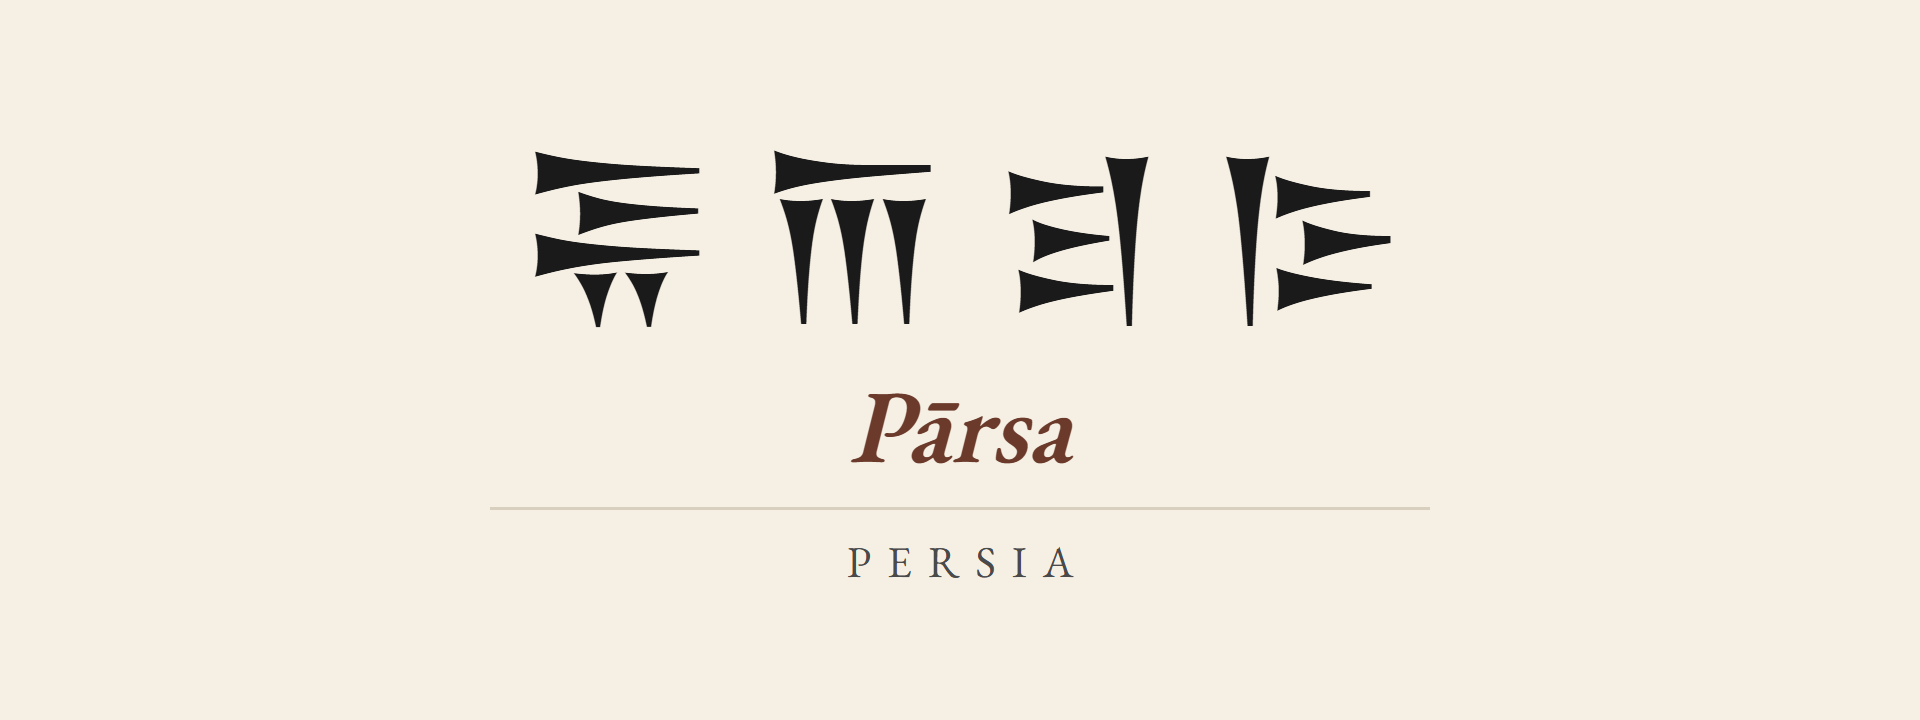
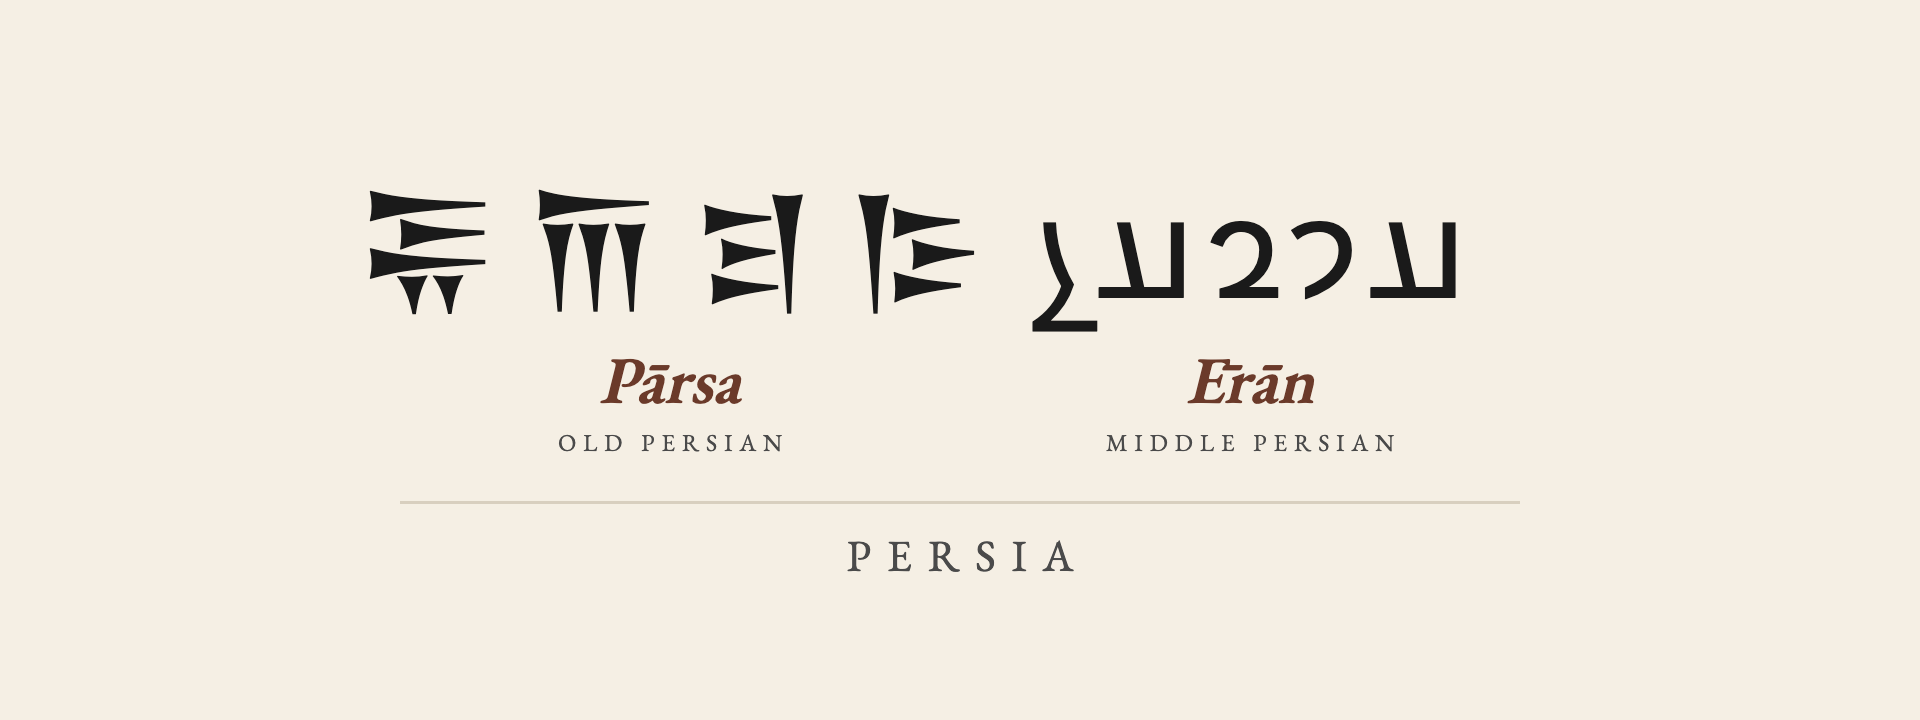
Adopt a two-column title card for Persia (Pārsa + Ērān)
Add the DualTitleCard Remotion composition: a two-column card for entities whose
payoff is multiple endonyms across time periods, with per-column script line,
transliteration, and period caption under one shared label. Equal-width columns
keep the two scripts balanced. It loads the Inscriptional Pahlavi font the
single-endonym card lacks. Adopt it for Persia, showing Old Persian Pārsa beside
Middle Persian Ērān; the single-endonym TitleCard is untouched.

diff --git a/videos/src/DualTitleCard.tsx b/videos/src/DualTitleCard.tsx
@@ -1,0 +1,127 @@
+import React from "react";
+import { AbsoluteFill } from "remotion";
+import { loadFont as loadGaramond } from "@remotion/google-fonts/EBGaramond";
+import { loadFont as loadHieroglyphs } from "@remotion/google-fonts/NotoSansEgyptianHieroglyphs";
+import { loadFont as loadOldPersian } from "@remotion/google-fonts/NotoSansOldPersian";
+import { loadFont as loadPahlavi } from "@remotion/google-fonts/NotoSansInscriptionalPahlavi";
+
+// PROTOTYPE — a two-column title card for entities with multiple endonyms across
+// time periods (e.g. Persia: Old Persian Pārsa and Middle Persian Ērān). Each
+// column carries its own script line, transliteration, and a small period caption;
+// a single English label sits below a shared rule. The single-endonym TitleCard is
+// left untouched — this is purely additive, for evaluating the idea on Persia.
+
+const { fontFamily: garamond } = loadGaramond("normal", {
+  weights: ["400", "600"],
+  subsets: ["latin", "greek", "greek-ext"],
+});
+const { fontFamily: hieroglyphs } = loadHieroglyphs("normal", { weights: ["400"], subsets: ["egyptian-hieroglyphs"] });
+const { fontFamily: oldPersian } = loadOldPersian("normal", { weights: ["400"], subsets: ["old-persian"] });
+const { fontFamily: pahlavi } = loadPahlavi("normal", { weights: ["400"], subsets: ["inscriptional-pahlavi"] });
+
+const PARCHMENT = "#f5efe4";
+const INK = "#1a1a1a";
+const INK_SOFT = "#4a4a4a";
+const ACCENT = "#6b3a2a";
+const RULE = "#d8cfbf";
+
+// A touch smaller than the single-endonym card so two columns sit comfortably on
+// the 1920×720 banner.
+const SCRIPTS = {
+  "egyptian-hieroglyphs": { fontFamily: hieroglyphs, fontSize: 168, letterSpacing: 10 },
+  "old-persian": { fontFamily: oldPersian, fontSize: 140, letterSpacing: 10 },
+  "inscriptional-pahlavi": { fontFamily: pahlavi, fontSize: 140, letterSpacing: 8 },
+  greek: { fontFamily: garamond, fontSize: 150, letterSpacing: 0 },
+  latin: { fontFamily: garamond, fontSize: 132, letterSpacing: 0 },
+} as const;
+
+type Endonym = {
+  script: keyof typeof SCRIPTS;
+  glyphs: string;
+  transliteration: string;
+  caption?: string;
+};
+
+export const DualTitleCard: React.FC<{ endonyms: Endonym[]; label: string }> = ({ endonyms, label }) => {
+  return (
+    <AbsoluteFill style={{ backgroundColor: PARCHMENT, justifyContent: "center", alignItems: "center" }}>
+      <div style={{ display: "inline-block", textAlign: "center" }}>
+        <div style={{ display: "flex", justifyContent: "center", gap: 40 }}>
+          {endonyms.map((e, i) => {
+            const line = SCRIPTS[e.script];
+            return (
+              <div key={i} style={{ width: 540, textAlign: "center" }}>
+                {/* fixed-height glyph row so the transliteration lines align across columns
+                    even when the two scripts differ in height */}
+                <div style={{ height: 178, display: "flex", alignItems: "flex-end", justifyContent: "center" }}>
+                  <div
+                    style={{
+                      fontFamily: line.fontFamily,
+                      fontWeight: 400,
+                      fontSize: line.fontSize,
+                      lineHeight: 1,
+                      letterSpacing: line.letterSpacing,
+                      paddingLeft: line.letterSpacing,
+                      whiteSpace: "nowrap",
+                      color: INK,
+                    }}
+                  >
+                    {e.glyphs}
+                  </div>
+                </div>
+                <div
+                  style={{
+                    fontFamily: garamond,
+                    fontWeight: 600,
+                    fontStyle: "italic",
+                    fontSize: 66,
+                    lineHeight: 1,
+                    marginTop: 26,
+                    color: ACCENT,
+                  }}
+                >
+                  {e.transliteration}
+                </div>
+                {e.caption ? (
+                  <div
+                    style={{
+                      fontFamily: garamond,
+                      fontWeight: 400,
+                      fontSize: 24,
+                      lineHeight: 1,
+                      marginTop: 18,
+                      letterSpacing: 7,
+                      paddingLeft: 7,
+                      textTransform: "uppercase",
+                      color: INK_SOFT,
+                    }}
+                  >
+                    {e.caption}
+                  </div>
+                ) : null}
+              </div>
+            );
+          })}
+        </div>
+
+        <div style={{ marginTop: 46, height: 3, width: "100%", backgroundColor: RULE }} />
+
+        <div
+          style={{
+            fontFamily: garamond,
+            fontWeight: 400,
+            fontSize: 44,
+            lineHeight: 1,
+            marginTop: 30,
+            letterSpacing: 16,
+            paddingLeft: 16,
+            textTransform: "uppercase",
+            color: INK_SOFT,
+          }}
+        >
+          {label}
+        </div>
+      </div>
+    </AbsoluteFill>
+  );
+};

diff --git a/videos/src/Root.tsx b/videos/src/Root.tsx
@@ -8,6 +8,7 @@ import { GreeceTitleCard } from "./GreeceTitleCard";
 import { PersiaTitleCard } from "./PersiaTitleCard";
 import { DefaultOgCard } from "./DefaultOgCard";
 import { TitleCard, titleCardSchema } from "./TitleCard";
+import { DualTitleCard } from "./DualTitleCard";
 
 // Each <Composition> is an entry in the sidebar!
 
@@ -31,6 +32,23 @@ export const RemotionRoot: React.FC = () => {
           glyphs: "𓆎𓅓𓏏",
           transliteration: "Kemet",
           label: "Egypt",
+        }}
+      />
+      {/* PROTOTYPE — two-column card for multi-endonym entities (Persia: Pārsa + Ērān).
+          Render: npx remotion still DualTitleCard /tmp/persia-dual.png */}
+      <Composition
+        id="DualTitleCard"
+        component={DualTitleCard}
+        durationInFrames={1}
+        fps={30}
+        width={1920}
+        height={720}
+        defaultProps={{
+          endonyms: [
+            { script: "old-persian" as const, glyphs: "𐎱𐎠𐎼𐎿", transliteration: "Pārsa", caption: "Old Persian" },
+            { script: "inscriptional-pahlavi" as const, glyphs: "𐭠𐭩𐭥𐭠𐭭", transliteration: "Ērān", caption: "Middle Persian" },
+          ],
+          label: "Persia",
         }}
       />
       {/* Onomastikon homepage wordmark — 8:3 masthead banner.
